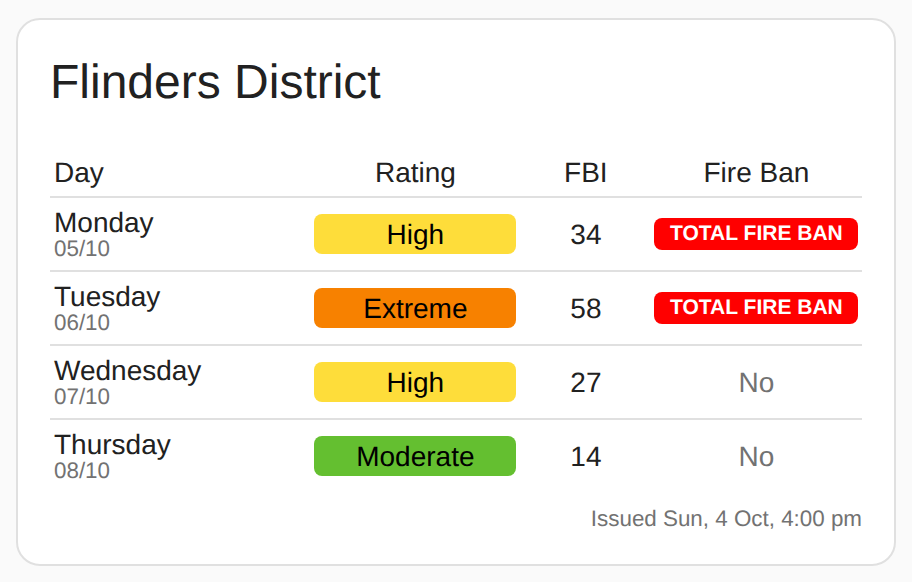
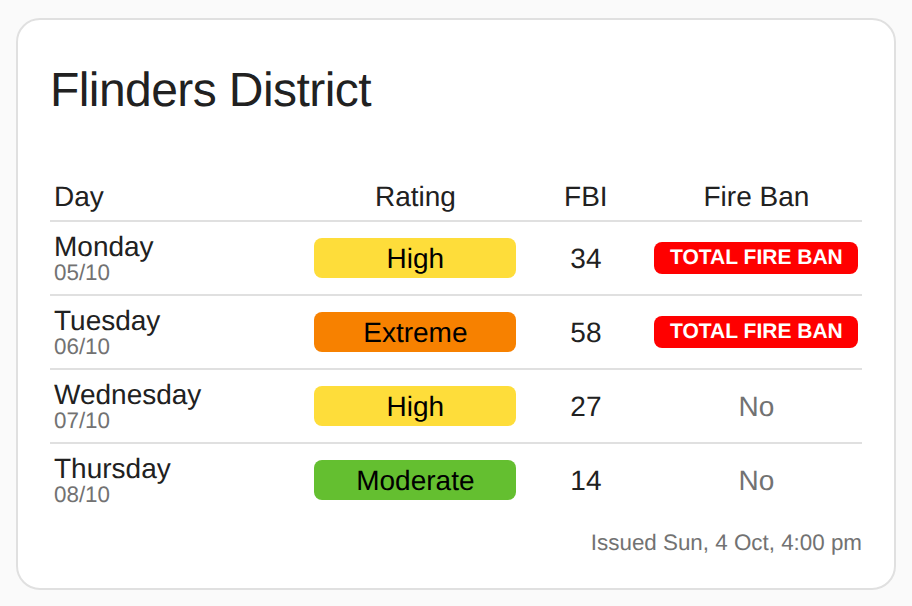
Cards: Today/Tomorrow option, gauge card name, preview and title gap
- Table and district cards: new today_tomorrow option (in the visual
  editor). The table defaults to on (Today, Tomorrow, Wed...), the
  district card to off (Monday, Tuesday...), matching their current
  behaviour.
- Gauge card shows as "SA CFS Fire Danger Gauge Card" in the card
  picker. Its stub config now picks the first district rating sensor,
  so the picker can show a preview (before, the empty entity threw).
- Gauge card draws its own title instead of using the ha-card header,
  whose padding left a large gap above the gauge. The title text still
  lines up with the other cards' headers.
- README documents today_tomorrow and the picker name; screenshots
  regenerated with HA's header spacing.

Claude-Session: https://claude.ai/code/session_01QWL8WeA7Yvk6wtkTSZJR7a

diff --git a/custom_components/sa_cfs_fire_danger/www/sa-cfs-fire-danger-card.js b/custom_components/sa_cfs_fire_danger/www/sa-cfs-fire-danger-card.js
@@ -6,8 +6,8 @@ import { LitElement, html, css } from "https://unpkg.com/lit-element@2.0.1/lit-e
 window.customCards = window.customCards || [];
 window.customCards.push({
   type: "sa-cfs-fire-danger-card",
-  name: "SA CFS Fire Danger Card",
-  description: "Displays the SA CFS Fire Danger Rating with optional fire ban overlay.",
+  name: "SA CFS Fire Danger Gauge Card",
+  description: "Today's fire danger rating for one district as a gauge, with an optional fire ban overlay.",
   preview: true,
   configurable: true,
 });
@@ -123,9 +123,14 @@ class SaCfsFireDangerCard extends LitElement {
     return document.createElement("sa-cfs-fire-danger-card-editor");
   }
 
-  static getStubConfig() {
+  static getStubConfig(hass) {
+    // Pick a real district so the card picker can show a preview.
+    const entity =
+      Object.keys(hass?.states || {})
+        .filter((e) => e.startsWith("sensor.sa_cfs_") && e.endsWith("_fire_danger_rating"))
+        .sort()[0] || "";
     return {
-      entity: "",
+      entity,
       image_set: "Gauge 1",
       overlay_fire_ban: false,
       show_title: true,
@@ -185,7 +190,8 @@ class SaCfsFireDangerCard extends LitElement {
       : undefined;
 
     return html`
-      <ha-card .header=${title}>
+      <ha-card>
+        ${title ? html`<div class="title">${title}</div>` : ""}
         <div class="card-container">
           <img src="${baseImageUrl}" class="rating-image" />
           ${overlay}
@@ -196,6 +202,17 @@ class SaCfsFireDangerCard extends LitElement {
 
   static get styles() {
     return css`
+      /* Own title instead of the ha-card header, whose padding leaves a large gap above the gauge. */
+      .title {
+        font-family: var(--ha-card-header-font-family, inherit);
+        font-size: var(--ha-card-header-font-size, 24px);
+        color: var(--ha-card-header-color, var(--primary-text-color));
+        letter-spacing: -0.012em;
+        line-height: 32px;
+        /* Title text lines up with the standard ha-card header used by the other cards. */
+        padding: 20px 16px 4px;
+      }
+
       .card-container {
         position: relative;
         line-height: 0;
@@ -242,6 +259,7 @@ const MAX_DAYS = 5;
 
 const TABLE_DEFAULTS = {
   days: 4,
+  today_tomorrow: true,
   show_fbi: true,
   show_fire_ban: true,
   fire_ban_display: "banner",
@@ -289,6 +307,7 @@ class SaCfsFireDangerTableCardEditor extends LitElement {
         name: "days",
         selector: { number: { min: 1, max: MAX_DAYS, mode: "slider" } },
       },
+      { name: "today_tomorrow", selector: { boolean: {} } },
       { name: "show_fbi", selector: { boolean: {} } },
       { name: "show_dates", selector: { boolean: {} } },
       { name: "show_footer", selector: { boolean: {} } },
@@ -325,6 +344,7 @@ class SaCfsFireDangerTableCardEditor extends LitElement {
       title: "Title",
       entities: "Districts (leave empty for all)",
       days: "Days to show",
+      today_tomorrow: "Label the first two days Today / Tomorrow",
       show_fbi: "Show fire behaviour index",
       show_dates: "Show dates in headings",
       show_footer: "Show issued time footer",
@@ -430,8 +450,8 @@ class SaCfsFireDangerTableCard extends LitElement {
     for (let day = 1; day <= this.config.days; day++) {
       let label;
       let short;
-      if (day === 1) label = "Today";
-      else if (day === 2) [label, short] = ["Tomorrow", "Tmrw"];
+      if (this.config.today_tomorrow && day === 1) label = "Today";
+      else if (this.config.today_tomorrow && day === 2) [label, short] = ["Tomorrow", "Tmrw"];
       else if (summary?.attributes[`day_${day}_name`]) {
         label = summary.attributes[`day_${day}_name`].slice(0, 3);
       } else {
@@ -770,6 +790,7 @@ window.customCards.push({
 
 const DISTRICT_DEFAULTS = {
   days: 4,
+  today_tomorrow: false,
   show_title: true,
   show_dates: true,
   show_fbi: true,
@@ -806,6 +827,7 @@ class SaCfsFireDangerDistrictCardEditor extends LitElement {
         name: "days",
         selector: { number: { min: 1, max: MAX_DAYS, mode: "slider" } },
       },
+      { name: "today_tomorrow", selector: { boolean: {} } },
       { name: "show_dates", selector: { boolean: {} } },
       { name: "show_fbi", selector: { boolean: {} } },
       { name: "show_fire_ban", selector: { boolean: {} } },
@@ -819,6 +841,7 @@ class SaCfsFireDangerDistrictCardEditor extends LitElement {
       show_title: "Show title",
       title: "Title (leave empty for \"<District> District\")",
       days: "Days to show",
+      today_tomorrow: "Label the first two days Today / Tomorrow",
       show_dates: "Show dates",
       show_fbi: "Show fire behaviour index column",
       show_fire_ban: "Show fire ban column",
@@ -878,6 +901,8 @@ class SaCfsFireDangerDistrictCard extends SaCfsFireDangerTableCard {
   }
 
   _dayName(day) {
+    if (this.config.today_tomorrow && day === 1) return "Today";
+    if (this.config.today_tomorrow && day === 2) return "Tomorrow";
     const summary = this.hass.states[SUMMARY_ENTITY];
     return summary?.attributes[`day_${day}_name`] || (day === 1 ? "Today" : `Day ${day}`);
   }

diff --git a/README.md b/README.md
@@ -126,6 +126,8 @@ Shows today's rating as a gauge, in one of three styles, with an optional fire b
 
 <img width="868" alt="Gauge card in its three styles" src="docs/gauge-card.png" />
 
+Card picker name: "SA CFS Fire Danger Gauge Card".
+
 ```yaml
 type: custom:sa-cfs-fire-danger-card
 entity: sensor.sa_cfs_flinders_fire_danger_rating
@@ -148,6 +150,7 @@ Card picker name: "SA CFS Fire Danger District Forecast".
 type: custom:sa-cfs-fire-danger-district-card
 entity: sensor.sa_cfs_flinders_fire_danger_rating
 days: 4                 # 1-5
+today_tomorrow: false   # true = first two rows say Today / Tomorrow instead of day names
 show_title: true
 # title: Flinders       # optional; defaults to "<District> District"
 show_dates: true        # dd/mm under each day name
@@ -173,6 +176,7 @@ Card picker name: "SA CFS Fire Danger Table".
 type: custom:sa-cfs-fire-danger-table-card
 title: SA CFS Fire Danger Ratings
 days: 4                    # 1-5
+today_tomorrow: true       # false = day names for every column (Mon, Tue, ...)
 show_fbi: true             # FBI under each rating
 show_dates: true           # dd/mm under each day heading
 show_footer: true          # "Issued ..." footer
